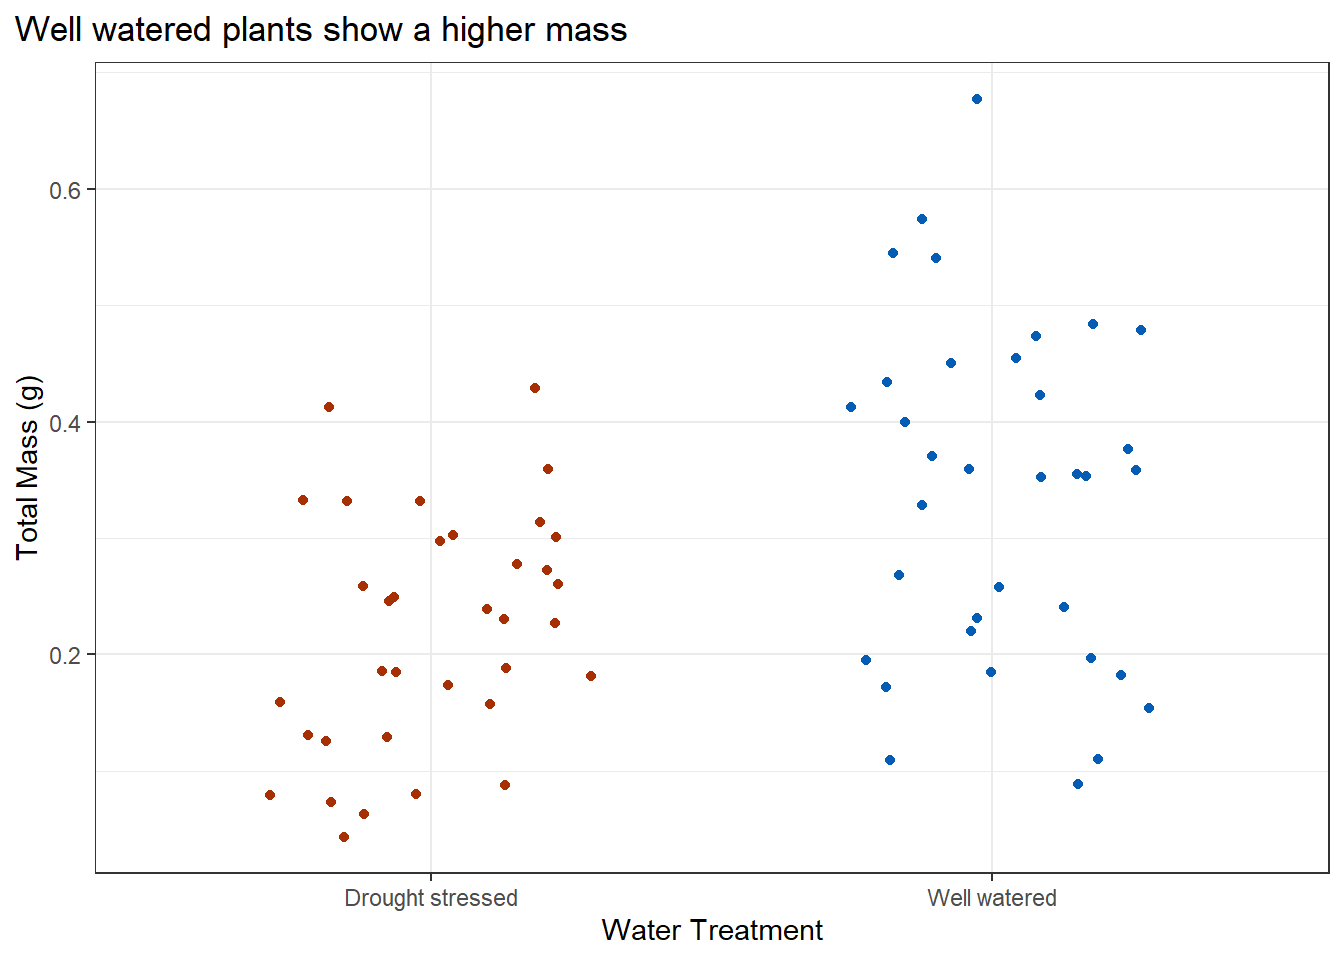
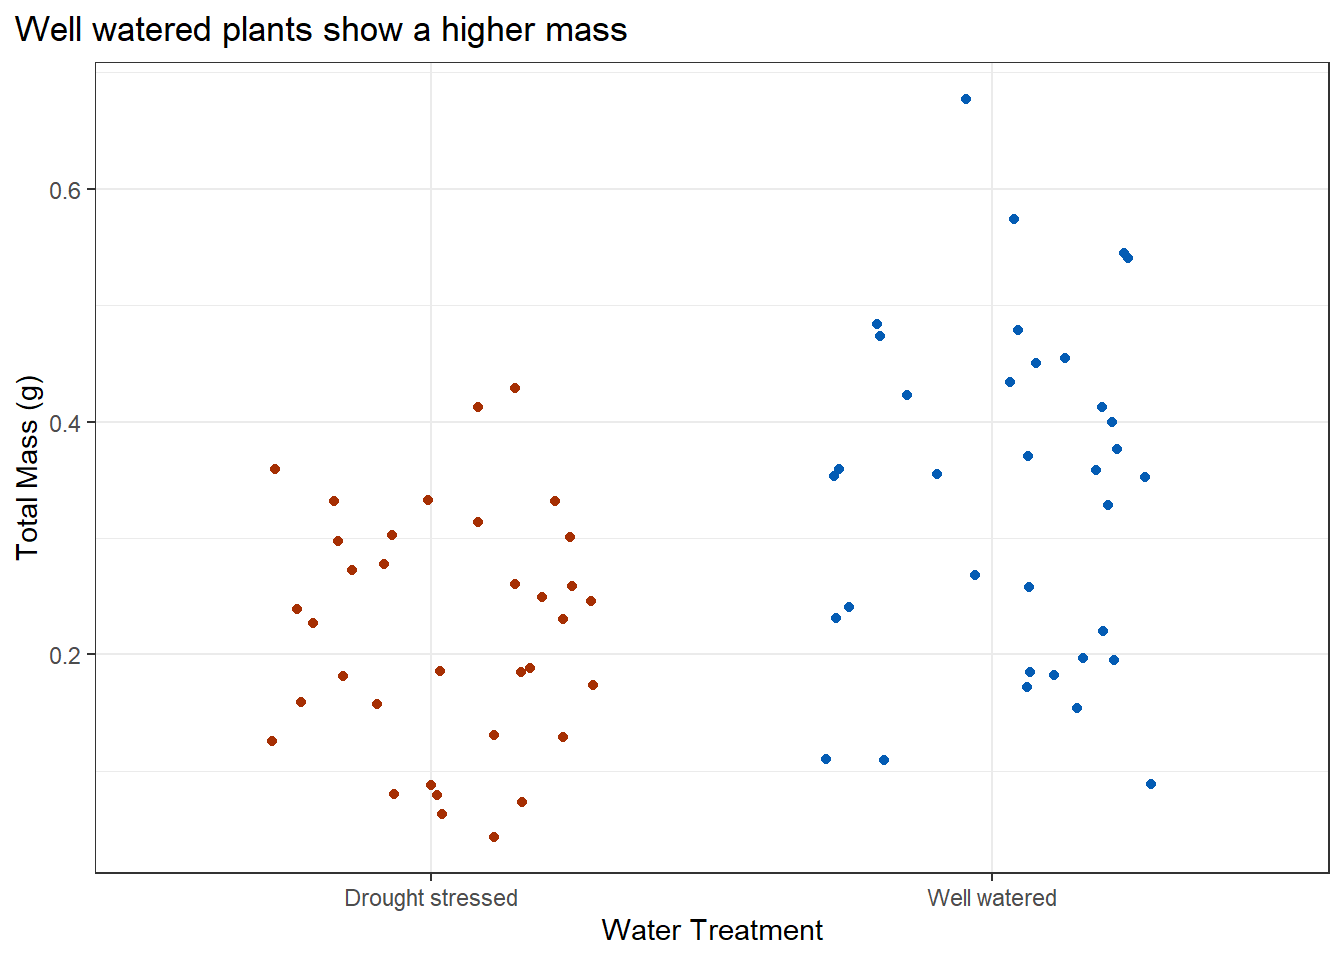
selected best model, looked at summary, and wrote about outome

diff --git a/code/workshop-code.html b/code/workshop-code.html
@@ -96,7 +96,6 @@ pre > code.sourceCode > span > a:first-child::before { text-decoration: underlin
   <ul class="collapse">
   <li><a href="#model-fitting" id="toc-model-fitting" class="nav-link" data-scroll-target="#model-fitting">Model fitting</a></li>
   <li><a href="#model-selection" id="toc-model-selection" class="nav-link" data-scroll-target="#model-selection">Model selection</a></li>
-  <li><a href="#model-diagnostics" id="toc-model-diagnostics" class="nav-link" data-scroll-target="#model-diagnostics">Model diagnostics</a></li>
   <li><a href="#summary" id="toc-summary" class="nav-link" data-scroll-target="#summary">Summary</a></li>
   <li><a href="#stop-and-think-what-does-this-model-mean" id="toc-stop-and-think-what-does-this-model-mean" class="nav-link" data-scroll-target="#stop-and-think-what-does-this-model-mean">Stop and think: what does this model mean?</a></li>
   </ul></li>
@@ -302,16 +301,16 @@ pre > code.sourceCode > span > a:first-child::before { text-decoration: underlin
 <pre><code># A tibble: 10 × 4
    species_name               water_treatment    sla total_g
    &lt;fct&gt;                      &lt;fct&gt;            &lt;dbl&gt;   &lt;dbl&gt;
- 1 Eschscholzia californica   Well watered      116.  0.423 
- 2 Lotus scoparius            Drought stressed  116.  0.0802
- 3 Grindelia camporum         Drought stressed  167.  0.314 
- 4 Lotus scoparius            Well watered      137.  0.109 
- 5 Stipa pulchra              Well watered      161.  0.376 
- 6 Lotus scoparius            Well watered      140.  0.110 
- 7 Encelia californica        Drought stressed  171.  0.259 
- 8 Penstemon centranthifolius Well watered      158.  0.154 
- 9 Penstemon centranthifolius Well watered      160.  0.172 
-10 Grindelia camporum         Drought stressed  164.  0.428 </code></pre>
+ 1 Grindelia camporum         Well watered      213.  0.678 
+ 2 Salvia leucophylla         Drought stressed  110.  0.185 
+ 3 Grindelia camporum         Drought stressed  171.  0.250 
+ 4 Eschscholzia californica   Drought stressed  107.  0.302 
+ 5 Lotus scoparius            Well watered      137.  0.109 
+ 6 Grindelia camporum         Well watered      221.  0.473 
+ 7 Grindelia camporum         Well watered      205.  0.412 
+ 8 Grindelia camporum         Drought stressed  167.  0.314 
+ 9 Stipa pulchra              Drought stressed  176.  0.181 
+10 Penstemon centranthifolius Drought stressed  143.  0.0881</code></pre>
 </div>
 </div>
 </section>
@@ -485,55 +484,133 @@ pre > code.sourceCode > span > a:first-child::before { text-decoration: underlin
 <h2 class="anchored" data-anchor-id="model-fitting">Model fitting</h2>
 <div class="cell">
 <div class="code-copy-outer-scaffold"><div class="sourceCode cell-code" id="cb11"><pre class="sourceCode r code-with-copy"><code class="sourceCode r"><span id="cb11-1"><a href="#cb11-1" aria-hidden="true" tabindex="-1"></a><span class="co"># model 0: null model</span></span>
-<span id="cb11-2"><a href="#cb11-2" aria-hidden="true" tabindex="-1"></a></span>
-<span id="cb11-3"><a href="#cb11-3" aria-hidden="true" tabindex="-1"></a></span>
-<span id="cb11-4"><a href="#cb11-4" aria-hidden="true" tabindex="-1"></a><span class="co"># model 1: all predictors</span></span>
-<span id="cb11-5"><a href="#cb11-5" aria-hidden="true" tabindex="-1"></a></span>
-<span id="cb11-6"><a href="#cb11-6" aria-hidden="true" tabindex="-1"></a></span>
-<span id="cb11-7"><a href="#cb11-7" aria-hidden="true" tabindex="-1"></a><span class="co"># model 2: SLA and water treatment</span></span>
-<span id="cb11-8"><a href="#cb11-8" aria-hidden="true" tabindex="-1"></a></span>
-<span id="cb11-9"><a href="#cb11-9" aria-hidden="true" tabindex="-1"></a></span>
-<span id="cb11-10"><a href="#cb11-10" aria-hidden="true" tabindex="-1"></a><span class="co"># model 3: SLA and species</span></span>
-<span id="cb11-11"><a href="#cb11-11" aria-hidden="true" tabindex="-1"></a></span>
-<span id="cb11-12"><a href="#cb11-12" aria-hidden="true" tabindex="-1"></a></span>
-<span id="cb11-13"><a href="#cb11-13" aria-hidden="true" tabindex="-1"></a><span class="co"># model 4: water treatment and species</span></span>
-<span id="cb11-14"><a href="#cb11-14" aria-hidden="true" tabindex="-1"></a></span>
+<span id="cb11-2"><a href="#cb11-2" aria-hidden="true" tabindex="-1"></a>model0 <span class="ot">&lt;-</span> <span class="fu">lm</span>(total_g <span class="sc">~</span> <span class="dv">1</span>,</span>
+<span id="cb11-3"><a href="#cb11-3" aria-hidden="true" tabindex="-1"></a>             <span class="at">data =</span> drought_exp_clean)</span>
+<span id="cb11-4"><a href="#cb11-4" aria-hidden="true" tabindex="-1"></a></span>
+<span id="cb11-5"><a href="#cb11-5" aria-hidden="true" tabindex="-1"></a><span class="co"># model 1: all predictors</span></span>
+<span id="cb11-6"><a href="#cb11-6" aria-hidden="true" tabindex="-1"></a>model1 <span class="ot">&lt;-</span> <span class="fu">lm</span>(total_g <span class="sc">~</span> sla <span class="sc">+</span></span>
+<span id="cb11-7"><a href="#cb11-7" aria-hidden="true" tabindex="-1"></a>               water_treatment <span class="sc">+</span></span>
+<span id="cb11-8"><a href="#cb11-8" aria-hidden="true" tabindex="-1"></a>               species_name,</span>
+<span id="cb11-9"><a href="#cb11-9" aria-hidden="true" tabindex="-1"></a>             <span class="at">data =</span> drought_exp_clean)</span>
+<span id="cb11-10"><a href="#cb11-10" aria-hidden="true" tabindex="-1"></a></span>
+<span id="cb11-11"><a href="#cb11-11" aria-hidden="true" tabindex="-1"></a><span class="co"># model 2: SLA and water treatment</span></span>
+<span id="cb11-12"><a href="#cb11-12" aria-hidden="true" tabindex="-1"></a>model2 <span class="ot">&lt;-</span> <span class="fu">lm</span>(total_g <span class="sc">~</span> sla <span class="sc">+</span></span>
+<span id="cb11-13"><a href="#cb11-13" aria-hidden="true" tabindex="-1"></a>               water_treatment,</span>
+<span id="cb11-14"><a href="#cb11-14" aria-hidden="true" tabindex="-1"></a>             <span class="at">data =</span> drought_exp_clean)</span>
 <span id="cb11-15"><a href="#cb11-15" aria-hidden="true" tabindex="-1"></a></span>
-<span id="cb11-16"><a href="#cb11-16" aria-hidden="true" tabindex="-1"></a><span class="co"># model 5: SLA</span></span>
-<span id="cb11-17"><a href="#cb11-17" aria-hidden="true" tabindex="-1"></a></span>
-<span id="cb11-18"><a href="#cb11-18" aria-hidden="true" tabindex="-1"></a></span>
-<span id="cb11-19"><a href="#cb11-19" aria-hidden="true" tabindex="-1"></a><span class="co"># model 6: water treatment</span></span>
+<span id="cb11-16"><a href="#cb11-16" aria-hidden="true" tabindex="-1"></a><span class="co"># model 3: SLA and species</span></span>
+<span id="cb11-17"><a href="#cb11-17" aria-hidden="true" tabindex="-1"></a>model3 <span class="ot">&lt;-</span> <span class="fu">lm</span>(total_g <span class="sc">~</span> sla <span class="sc">+</span></span>
+<span id="cb11-18"><a href="#cb11-18" aria-hidden="true" tabindex="-1"></a>               species_name,</span>
+<span id="cb11-19"><a href="#cb11-19" aria-hidden="true" tabindex="-1"></a>             <span class="at">data =</span> drought_exp_clean)</span>
 <span id="cb11-20"><a href="#cb11-20" aria-hidden="true" tabindex="-1"></a></span>
-<span id="cb11-21"><a href="#cb11-21" aria-hidden="true" tabindex="-1"></a></span>
-<span id="cb11-22"><a href="#cb11-22" aria-hidden="true" tabindex="-1"></a><span class="co"># model 7: species</span></span></code></pre></div><button title="Copy to Clipboard" class="code-copy-button"><i class="bi"></i></button></div>
+<span id="cb11-21"><a href="#cb11-21" aria-hidden="true" tabindex="-1"></a><span class="co"># model 4: water treatment and species</span></span>
+<span id="cb11-22"><a href="#cb11-22" aria-hidden="true" tabindex="-1"></a>model4 <span class="ot">&lt;-</span> <span class="fu">lm</span>(total_g <span class="sc">~</span>water_treatment <span class="sc">+</span></span>
+<span id="cb11-23"><a href="#cb11-23" aria-hidden="true" tabindex="-1"></a>               species_name,</span>
+<span id="cb11-24"><a href="#cb11-24" aria-hidden="true" tabindex="-1"></a>             <span class="at">data =</span> drought_exp_clean)</span>
+<span id="cb11-25"><a href="#cb11-25" aria-hidden="true" tabindex="-1"></a></span>
+<span id="cb11-26"><a href="#cb11-26" aria-hidden="true" tabindex="-1"></a><span class="co"># model 5: SLA</span></span>
+<span id="cb11-27"><a href="#cb11-27" aria-hidden="true" tabindex="-1"></a>model5 <span class="ot">&lt;-</span> <span class="fu">lm</span>(total_g <span class="sc">~</span> sla,</span>
+<span id="cb11-28"><a href="#cb11-28" aria-hidden="true" tabindex="-1"></a>             <span class="at">data =</span> drought_exp_clean)</span>
+<span id="cb11-29"><a href="#cb11-29" aria-hidden="true" tabindex="-1"></a></span>
+<span id="cb11-30"><a href="#cb11-30" aria-hidden="true" tabindex="-1"></a><span class="co"># model 6: water treatment</span></span>
+<span id="cb11-31"><a href="#cb11-31" aria-hidden="true" tabindex="-1"></a>model6 <span class="ot">&lt;-</span> <span class="fu">lm</span>(total_g <span class="sc">~</span> water_treatment,</span>
+<span id="cb11-32"><a href="#cb11-32" aria-hidden="true" tabindex="-1"></a>             <span class="at">data =</span> drought_exp_clean)</span>
+<span id="cb11-33"><a href="#cb11-33" aria-hidden="true" tabindex="-1"></a></span>
+<span id="cb11-34"><a href="#cb11-34" aria-hidden="true" tabindex="-1"></a><span class="co"># model 7: species</span></span>
+<span id="cb11-35"><a href="#cb11-35" aria-hidden="true" tabindex="-1"></a>model7 <span class="ot">&lt;-</span> <span class="fu">lm</span>(total_g <span class="sc">~</span> species_name,</span>
+<span id="cb11-36"><a href="#cb11-36" aria-hidden="true" tabindex="-1"></a>             <span class="at">data =</span> drought_exp_clean)</span></code></pre></div><button title="Copy to Clipboard" class="code-copy-button"><i class="bi"></i></button></div>
 </div>
 </section>
 <section id="model-selection" class="level2">
 <h2 class="anchored" data-anchor-id="model-selection">Model selection</h2>
 <p>Insert code to use the <code>AICc()</code> function to calculate the AIC for each model.</p>
 <p>Arrange by decreasing AIC.</p>
-</section>
-<section id="model-diagnostics" class="level2">
-<h2 class="anchored" data-anchor-id="model-diagnostics">Model diagnostics</h2>
+<div class="cell">
+<div class="code-copy-outer-scaffold"><div class="sourceCode cell-code" id="cb12"><pre class="sourceCode r code-with-copy"><code class="sourceCode r"><span id="cb12-1"><a href="#cb12-1" aria-hidden="true" tabindex="-1"></a><span class="fu">AICc</span>(model0,</span>
+<span id="cb12-2"><a href="#cb12-2" aria-hidden="true" tabindex="-1"></a>    model1,</span>
+<span id="cb12-3"><a href="#cb12-3" aria-hidden="true" tabindex="-1"></a>    model2,</span>
+<span id="cb12-4"><a href="#cb12-4" aria-hidden="true" tabindex="-1"></a>    model3,</span>
+<span id="cb12-5"><a href="#cb12-5" aria-hidden="true" tabindex="-1"></a>    model4,</span>
+<span id="cb12-6"><a href="#cb12-6" aria-hidden="true" tabindex="-1"></a>    model5,</span>
+<span id="cb12-7"><a href="#cb12-7" aria-hidden="true" tabindex="-1"></a>    model6,</span>
+<span id="cb12-8"><a href="#cb12-8" aria-hidden="true" tabindex="-1"></a>    model7) <span class="sc">|&gt;</span> </span>
+<span id="cb12-9"><a href="#cb12-9" aria-hidden="true" tabindex="-1"></a>  <span class="fu">arrange</span>(AICc)</span></code></pre></div><button title="Copy to Clipboard" class="code-copy-button"><i class="bi"></i></button></div>
+<div class="cell-output cell-output-stdout">
+<pre><code>       df       AICc
+model4  9 -156.19595
+model1 10 -153.75361
+model3  9 -124.07569
+model7  8 -120.30191
+model2  4  -95.82521
+model5  3  -88.85180
+model6  3  -86.76661
+model0  2  -74.98036</code></pre>
+</div>
+</div>
+<p>Best model is model4: includes only water treatment and species name. ## Model diagnostics</p>
 <p>Insert code to look at the diagnostic plots for the best model.</p>
+<div class="cell">
+<div class="code-copy-outer-scaffold"><div class="sourceCode cell-code" id="cb14"><pre class="sourceCode r code-with-copy"><code class="sourceCode r"><span id="cb14-1"><a href="#cb14-1" aria-hidden="true" tabindex="-1"></a><span class="fu">par</span>(<span class="at">mfrow =</span> <span class="fu">c</span>(<span class="dv">2</span>,<span class="dv">2</span>)) <span class="co">#display plots in 2 x 2 grid</span></span>
+<span id="cb14-2"><a href="#cb14-2" aria-hidden="true" tabindex="-1"></a><span class="fu">plot</span>(model4)</span></code></pre></div><button title="Copy to Clipboard" class="code-copy-button"><i class="bi"></i></button></div>
+<div class="cell-output-display">
+<div>
+<figure class="figure">
+<p><img src="workshop-code_files/figure-html/residual%20plot%20for%20model4-1.png" class="img-fluid figure-img" width="672"></p>
+</figure>
+</div>
+</div>
+</div>
+<p>Diagnostic plots look good. Residuals look normally distributed based on QQ plot. Residuals appear homoscedastic (constant variance) based on Residuals vs Fitted plot and Scale-Location plot. NO outliers influencing model estimates of coefficients.</p>
 </section>
 <section id="summary" class="level2">
 <h2 class="anchored" data-anchor-id="summary">Summary</h2>
 <p>Insert code to display the summary for the best model.</p>
-<p><strong>What are the reference levels?</strong></p>
-<p><strong>What does the <code>(Intercept)</code> represent?</strong></p>
-<p><strong>What does <code>water_treatmentWell watered</code> represent?</strong></p>
-<p><strong>What does <code>species_namePenstemon centranthifolius</code> represent?</strong></p>
-<p><strong>What does <code>species_nameEschscholzia californica</code> represent?</strong></p>
+<div class="cell">
+<div class="code-copy-outer-scaffold"><div class="sourceCode cell-code" id="cb15"><pre class="sourceCode r code-with-copy"><code class="sourceCode r"><span id="cb15-1"><a href="#cb15-1" aria-hidden="true" tabindex="-1"></a><span class="fu">summary</span>(model4)</span></code></pre></div><button title="Copy to Clipboard" class="code-copy-button"><i class="bi"></i></button></div>
+<div class="cell-output cell-output-stdout">
+<pre><code>
+Call:
+lm(formula = total_g ~ water_treatment + species_name, data = drought_exp_clean)
+
+Residuals:
+      Min        1Q    Median        3Q       Max 
+-0.157087 -0.046953 -0.003733  0.041244  0.192657 
+
+Coefficients:
+                                       Estimate Std. Error t value Pr(&gt;|t|)    
+(Intercept)                             0.05455    0.02451   2.225  0.02973 *  
+water_treatmentWell watered             0.11695    0.01733   6.746 5.90e-09 ***
+species_namePenstemon centranthifolius  0.05003    0.03243   1.543  0.12799    
+species_nameSalvia leucophylla          0.12020    0.03243   3.706  0.00045 ***
+species_nameEncelia californica         0.21774    0.03243   6.714 6.70e-09 ***
+species_nameStipa pulchra               0.22881    0.03243   7.055 1.72e-09 ***
+species_nameEschscholzia californica    0.23164    0.03243   7.143 1.22e-09 ***
+species_nameGrindelia camporum          0.31335    0.03243   9.662 5.53e-14 ***
+---
+Signif. codes:  0 '***' 0.001 '**' 0.01 '*' 0.05 '.' 0.1 ' ' 1
+
+Residual standard error: 0.07252 on 62 degrees of freedom
+Multiple R-squared:  0.7535,    Adjusted R-squared:  0.7257 
+F-statistic: 27.08 on 7 and 62 DF,  p-value: &lt; 2.2e-16</code></pre>
+</div>
+</div>
+<p><strong>What are the reference levels?</strong><br>
+Drought stressed treatment and Lotus scoparius because they are not listed in the summary output.</p>
+<p><strong>What does the <code>(Intercept)</code> represent?</strong><br>
+estimated mass for drought stressed lotus scoparius (0.055g)</p>
+<p><strong>What does <code>water_treatmentWell watered</code> represent?</strong> This is the model prediction for the difference in Lotus scoparious mass between the well watered and drought stressed treatments. The model predicts the difference is 0.12 +/- 0.02 (SE) g.</p>
+<p><strong>What does <code>species_namePenstemon centranthifolius</code> represent?</strong><br>
+This is the model prediction for the difference between Penstemon centranthisfolius mass in the well watered treatment and Lotus scoparious mass in the well watered treatment. The model predicts a difference of 0.05 +/- 0.03 (SE) g.</p>
+<p><strong>What does <code>species_nameEschscholzia californica</code> represent?</strong> This is the model prediction between Eschscholzia californica mass in the well watered treatment and Lotus scoparious mass in the well watered treatment. The model predicts a difference of 0.23 +/- 0.03 (SE) g.</p>
 </section>
 <section id="stop-and-think-what-does-this-model-mean" class="level2">
 <h2 class="anchored" data-anchor-id="stop-and-think-what-does-this-model-mean">Stop and think: what does this model mean?</h2>
 <p><strong>What is the best model?</strong></p>
-<p>[insert your response here]</p>
+<p>The best model includes species name and water treatment as predictors.</p>
 <p><strong>How much variation in the response (total mass, in grams) does this model explain?</strong></p>
-<p>[insert your response here]</p>
+<p>This model explains 72.57% of the variation in total mass (g).</p>
 <p><strong>How do we interpret the effects of the predictors on the response variable (again, total mass in grams)?</strong></p>
-<p>[insert your response here]</p>
+<p>Water treatment influence plant mass. Species influences plant mass.</p>
 </section>
 </section>
 <section id="model-predictions" class="level1">
@@ -574,8 +651,8 @@ pre > code.sourceCode > span > a:first-child::before { text-decoration: underlin
 <section id="model-selection-1" class="level4">
 <h4 class="anchored" data-anchor-id="model-selection-1">Model selection</h4>
 </section>
-<section id="model-diagnostics-1" class="level4">
-<h4 class="anchored" data-anchor-id="model-diagnostics-1">Model diagnostics</h4>
+<section id="model-diagnostics" class="level4">
+<h4 class="anchored" data-anchor-id="model-diagnostics">Model diagnostics</h4>
 </section>
 </section>
 <section id="results" class="level3">
